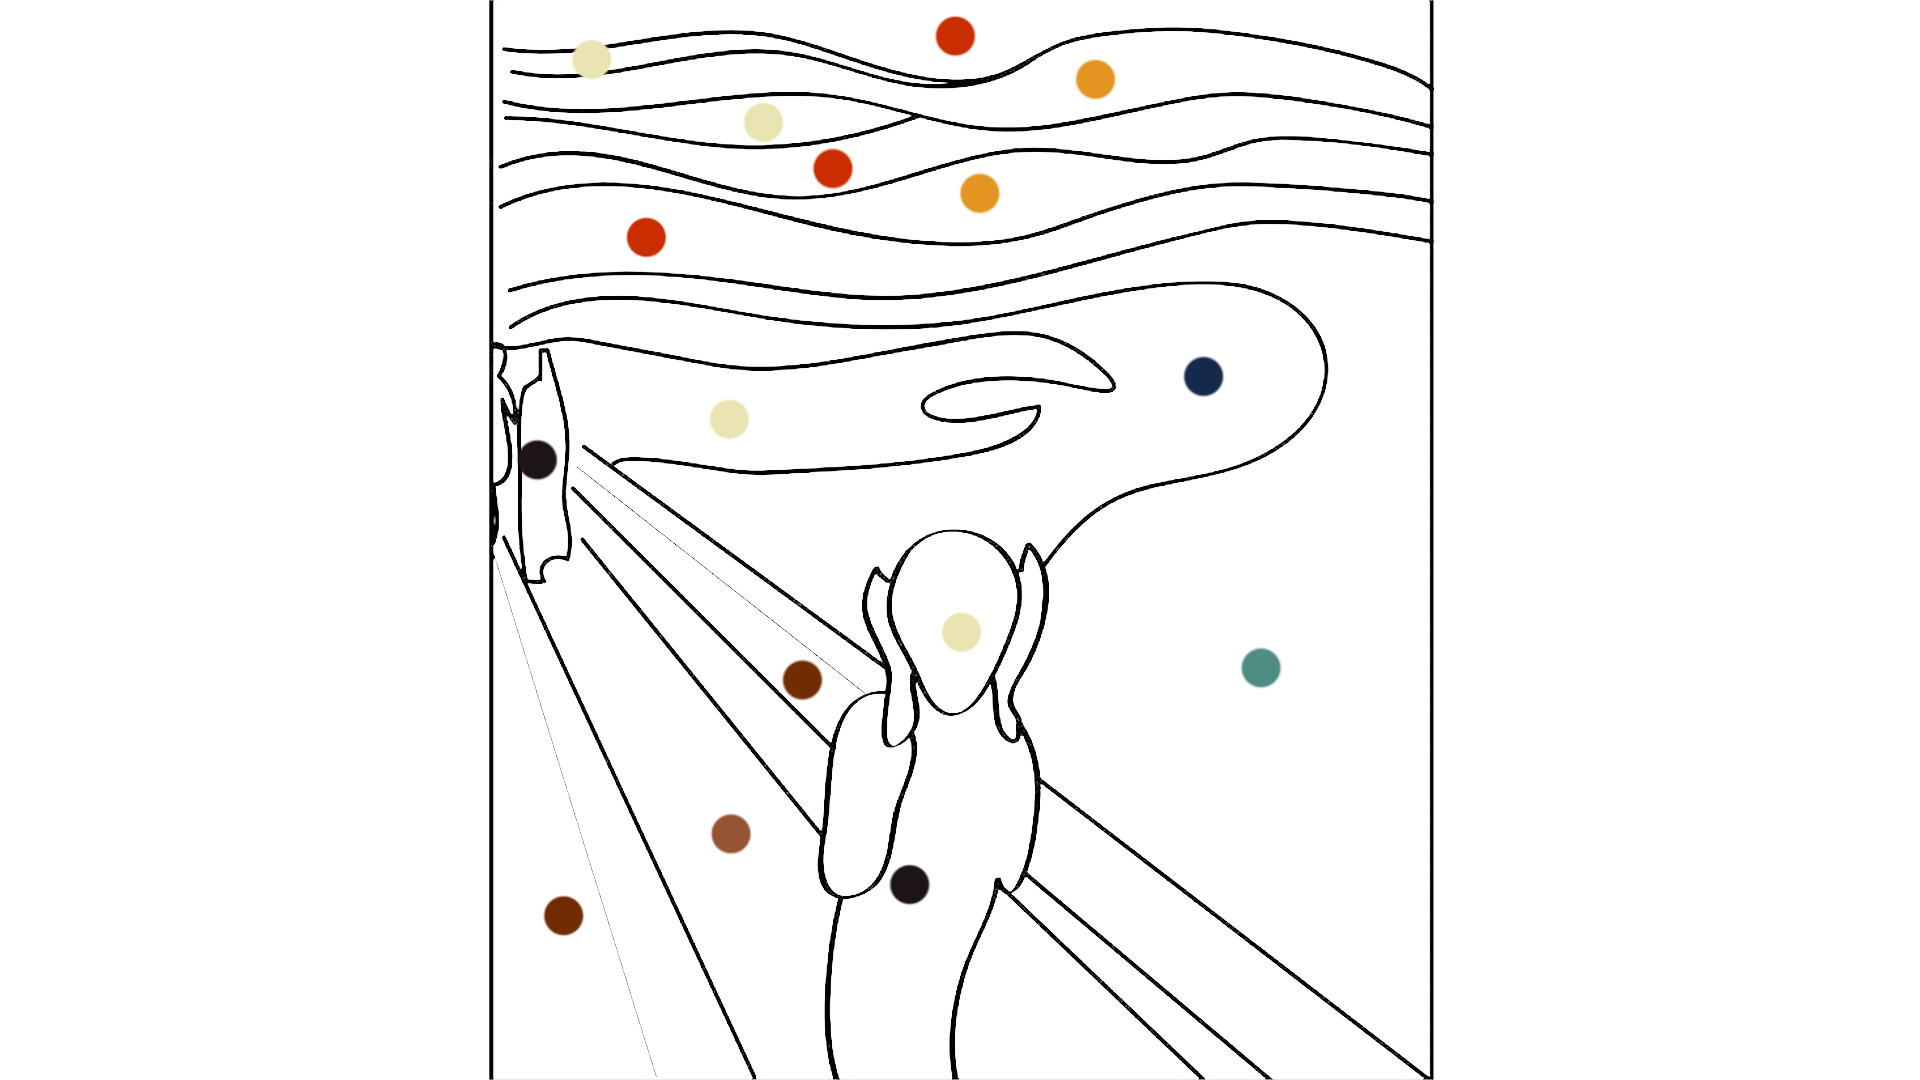
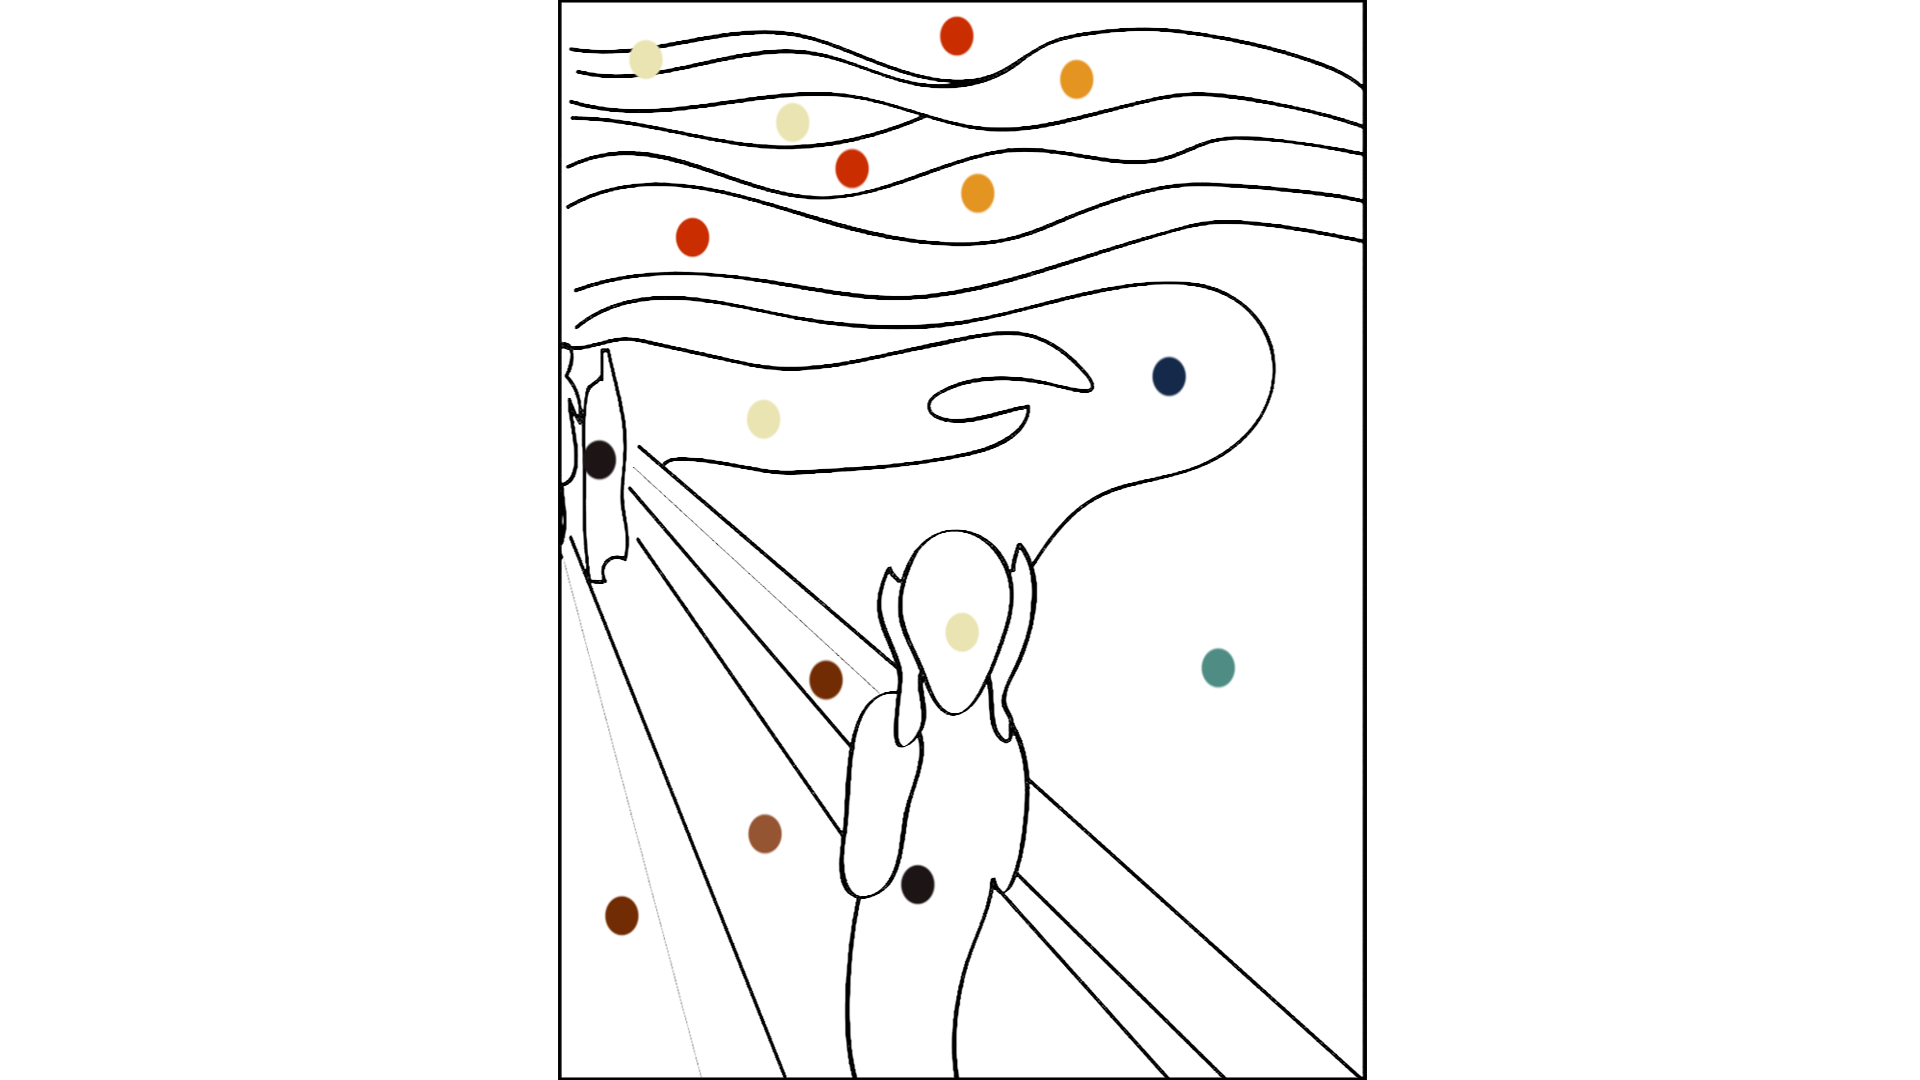
def

diff --git a/public/sketch.js b/public/sketch.js
@@ -19,7 +19,7 @@ function setup() {
   //tavolozza
   push();
   strokeWeight(3);
-  rect(width / 20, height / 20 * 16, 200, 100);
+  rect(width / 20, height / 20 * 16, 200, 108);
   pop();
   //welcome message
   push();
@@ -32,7 +32,7 @@ function setup() {
 }
 
 function draw() {
-  image(myImage, 0, 0, windowWidth, windowHeight);
+  image(myImage, 0, windowHeight/20, windowWidth, windowHeight/20*18);
 }
 
 //funzioni da ricezione server
